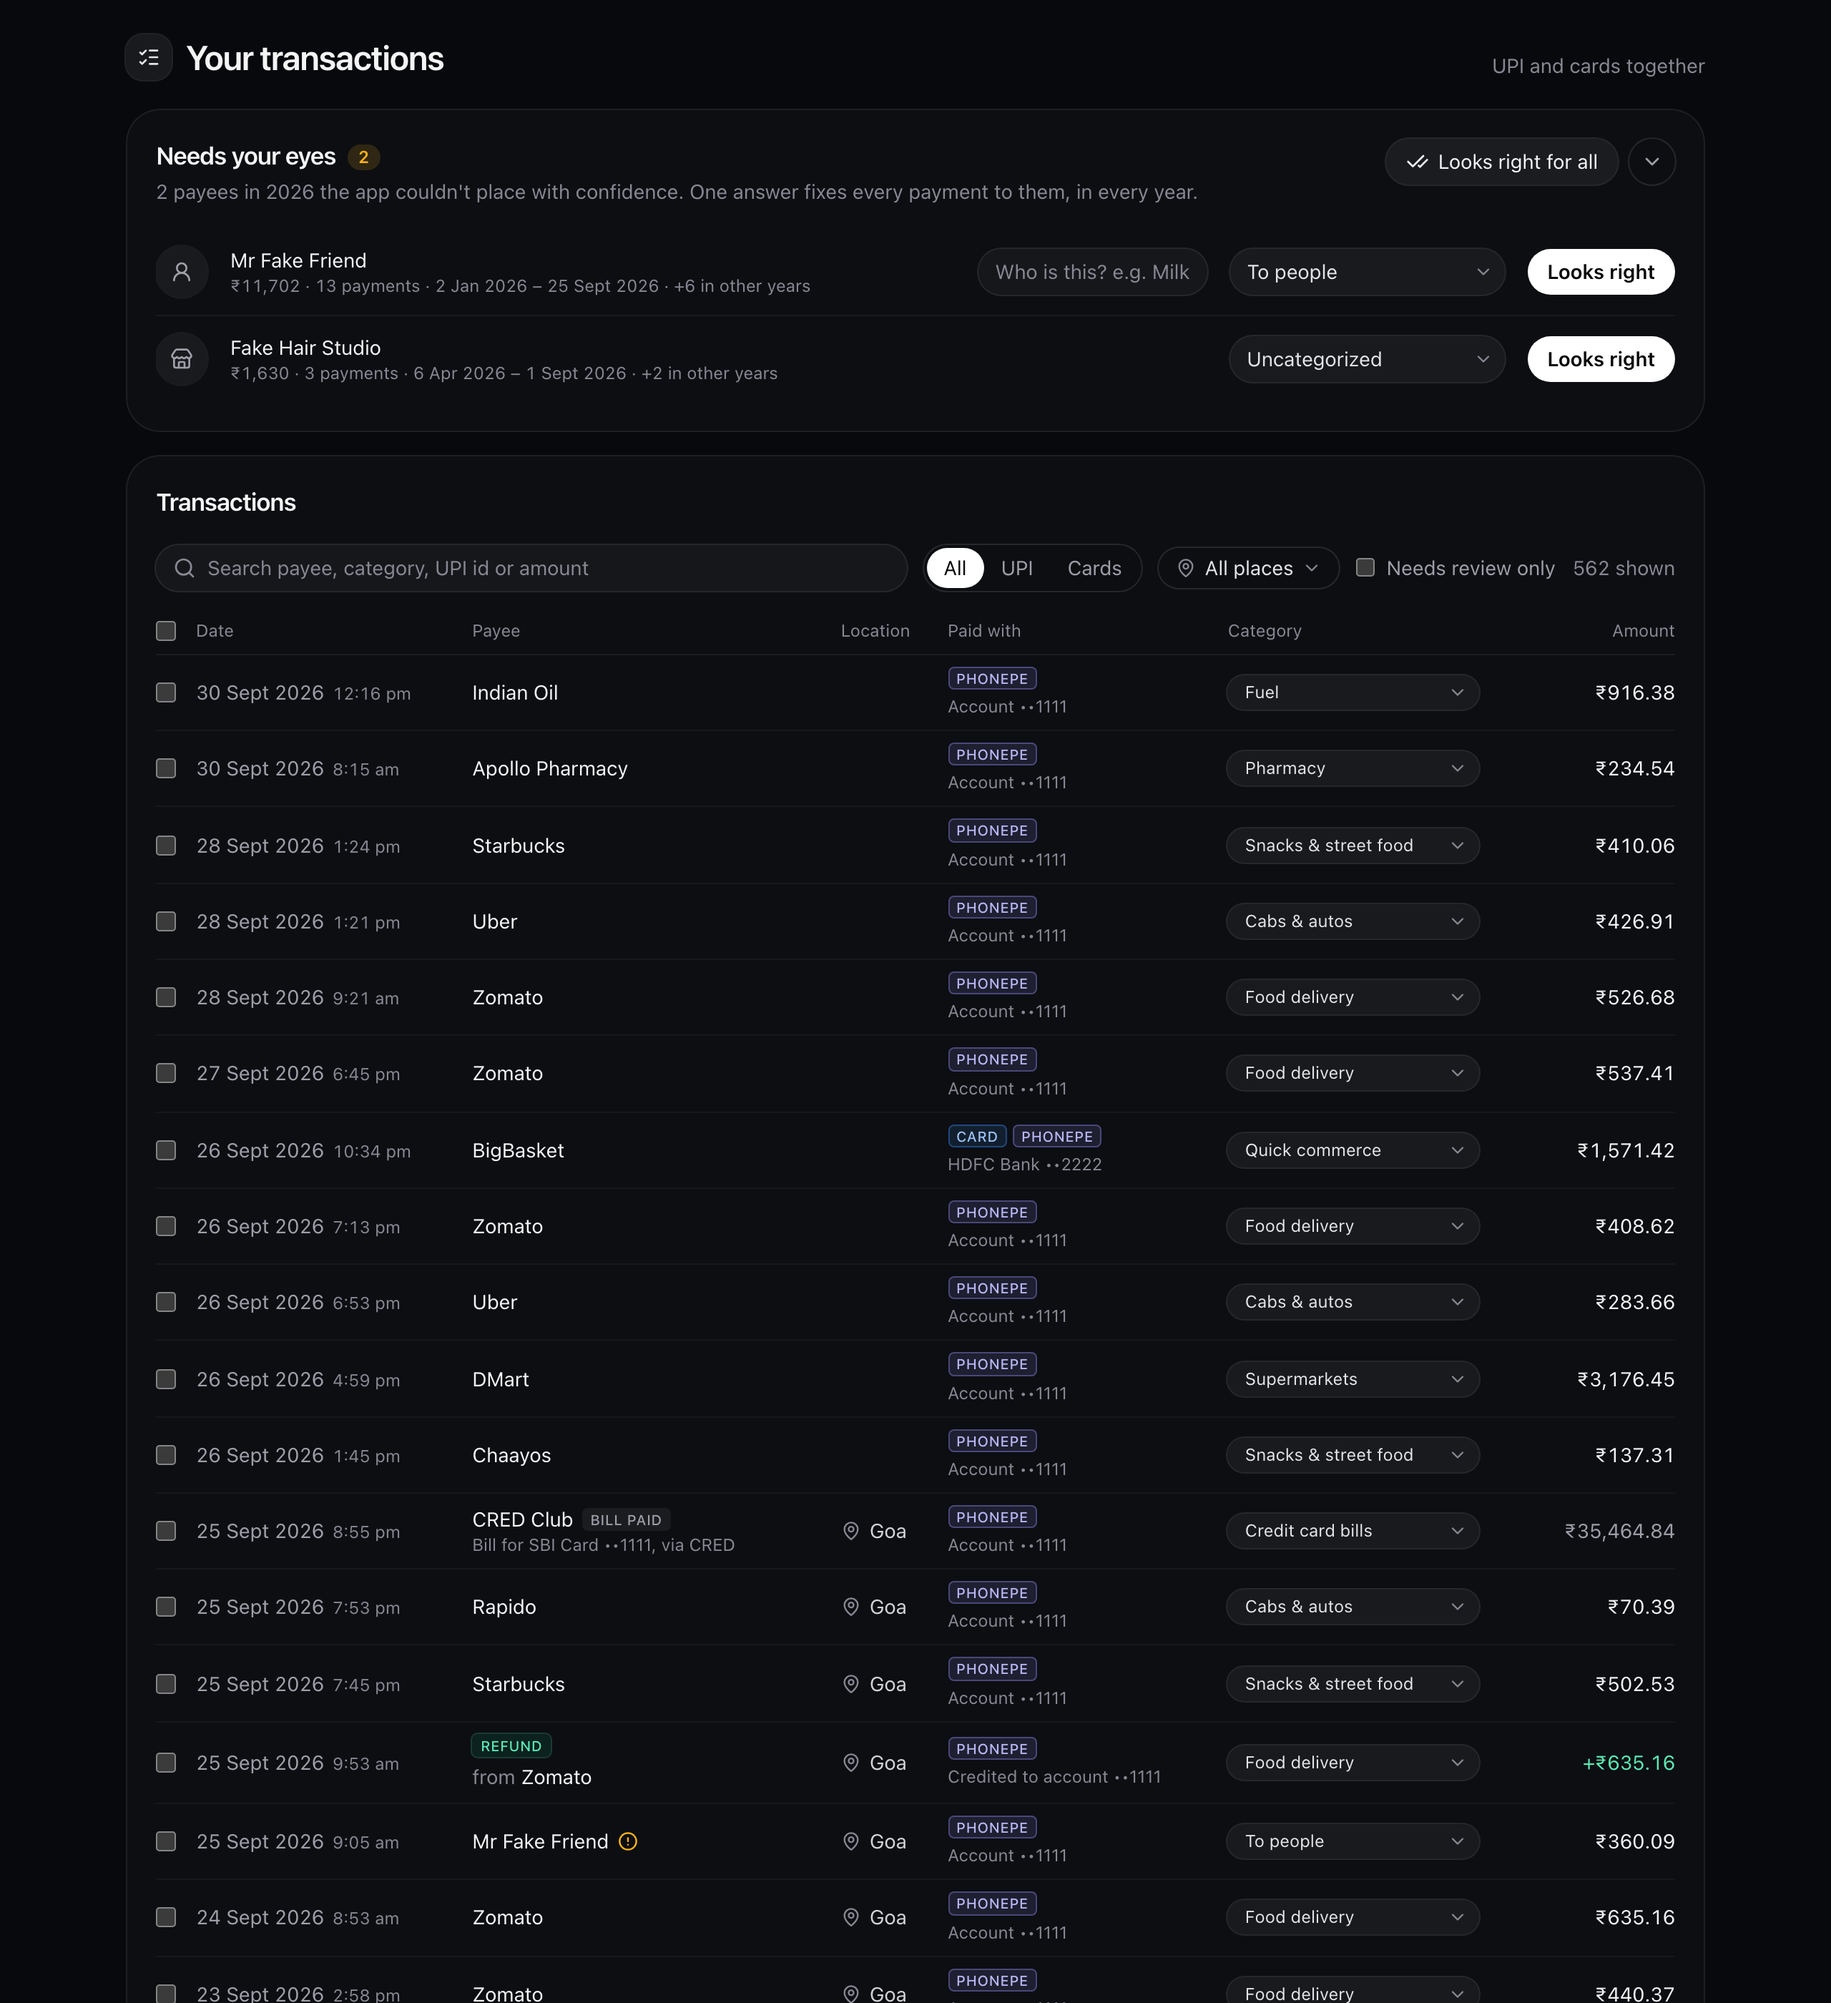
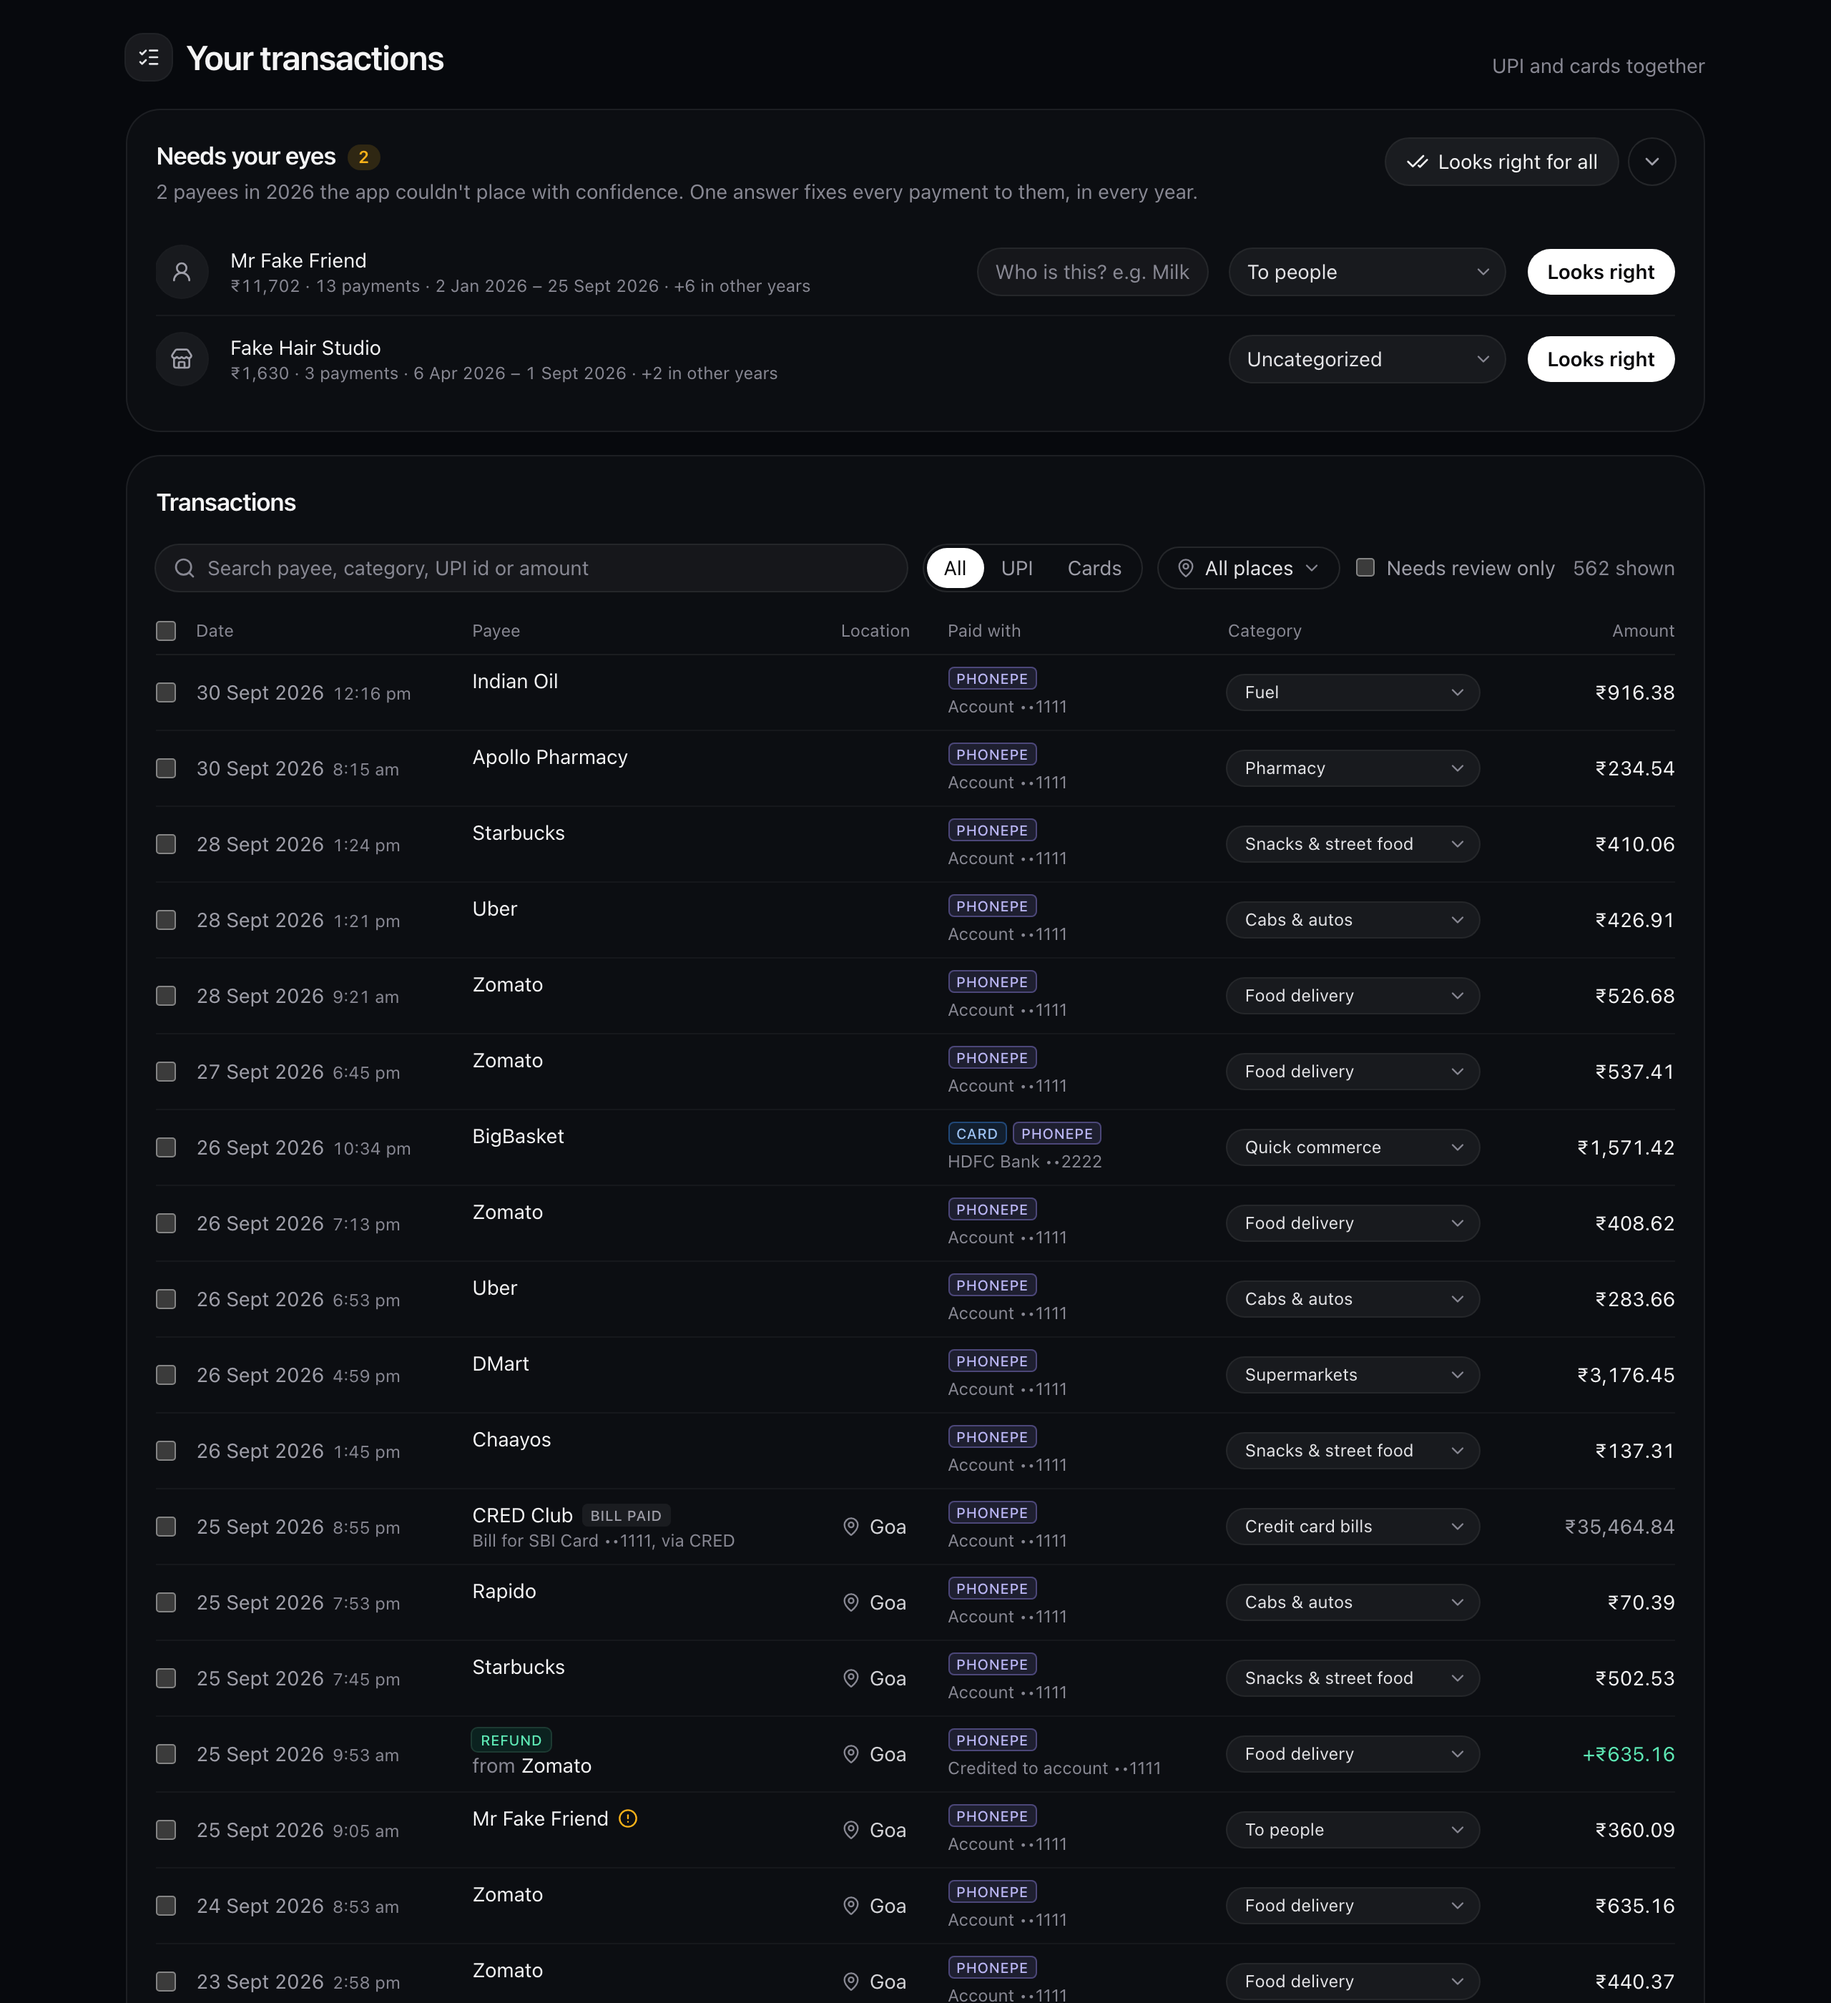
Every row of Your transactions the same height
Money in took a third line in Payee (its tag, "from" whom, then the card's own wording), and even without wording its
tag line and gap made it 4px taller than any other row. Now it's two lines like every row: the tag on top, "from" whom
under it with the card's wording beside the name, smaller, in the room the name leaves (cut first, never widening the
table; the whole of it on hover). Every Payee is two lines tall even with nothing under the name, and the chips are
exactly a small line tall, so nothing else makes a row taller. On a phone, money in is no taller than a payment out
with the same, its amount level with its tag.

Checks (scripts/checks/rows.mjs): every row of the demo's table measured the same height, every Payee two lines, no
other column taller, the wording on the name's line and cut before the name, the phone list. README transactions
picture retaken from the demo.

diff --git a/web/src/components/dash/TransactionsTable.tsx b/web/src/components/dash/TransactionsTable.tsx
@@ -365,17 +365,23 @@ export function TransactionsTable({
   )
   // money in reads as a bank's statement says it: its tag on top, then "from" whom (a cashback, its own wording), the way
   // "Paid with" has its chips on top and the account it was credited to under them (lib/ledger.ts `moneyIn`,
-  // `moneyFrom`); a payment out, its payee and any tag beside it, as before
+  // `moneyFrom`); the card's own wording beside the name, in the room the name leaves (cut before the name ever is, and
+  // never widening the table), so money in is two lines like any row. A payment out, its payee and any tag beside it
   const payee = (t: Transaction) =>
     moneyIn(t) ? (
       <div className="min-w-0">
-        <div className="flex items-center gap-1.5">
+        <div className="flex h-4 items-center gap-1.5">
           {tag(t)}
           {marks(t)}
         </div>
-        <div className="mt-1 flex min-w-0 items-baseline gap-1">
+        <div className="flex min-w-0 items-baseline gap-1">
           {t.payee !== NO_NAME && moneyFrom(t) && <span className="shrink-0 text-muted">from</span>}
           {payeeName(t)}
+          {detail(t) && (
+            <span className="ml-1 w-0 min-w-0 flex-1 truncate text-xs text-muted" title={detail(t) || undefined}>
+              {detail(t)}
+            </span>
+          )}
         </div>
       </div>
     ) : (
@@ -385,7 +391,8 @@ export function TransactionsTable({
         {marks(t)}
       </div>
     )
-  const subline = (t: Transaction) => detail(t) && <div className="truncate text-xs text-muted" title={detail(t) || undefined}>{detail(t)}</div>
+  // the card's own wording under a payment out's payee (money in has it beside the name)
+  const subline = (t: Transaction) => !moneyIn(t) && detail(t) && <div className="truncate text-xs text-muted" title={detail(t) || undefined}>{detail(t)}</div>
   const categoryOf = (t: Transaction) => <CategorySelect tree={tree} value={t.category} onChange={(c) => setOne(t, c)} compact />
   // a card bill is neither money in nor spending: no sign, no colour
   const amount = (t: Transaction) => ({
@@ -642,9 +649,12 @@ export function TransactionsTable({
                         {dayLabel(t.at)}
                         {time(t) && <span className="ml-1.5 text-xs text-muted">{time(t)}</span>}
                       </td>
+                      {/* two lines tall whatever it holds, so every row is the same height */}
                       <td className="max-w-[28rem] py-2 pr-4">
-                        {payee(t)}
-                        {subline(t)}
+                        <div className="min-h-9">
+                          {payee(t)}
+                          {subline(t)}
+                        </div>
                       </td>
                       {places && (
                         <td className="max-w-[10rem] py-2 pr-4">
@@ -686,9 +696,10 @@ export function TransactionsTable({
                       {/* the box keeps its look; the space around it takes the tap */}
                       <label className="tap -m-1.5 flex shrink-0 cursor-pointer self-start p-1.5 pt-[0.4375rem]">{tickBox(t)}</label>
                       <div className="min-w-0 flex-1">
-                        <div className="flex items-baseline gap-3">
+                        {/* money in: the amount level with its tag, a line as tall as the tag's, so the item is no taller */}
+                        <div className={`flex gap-3 ${moneyIn(t) ? 'items-start' : 'items-baseline'}`}>
                           <div className="min-w-0 flex-1">{payee(t)}</div>
-                          <div className={`shrink-0 ${money.className}`} title={money.title}>
+                          <div className={`shrink-0 ${moneyIn(t) ? 'leading-4' : ''} ${money.className}`} title={money.title}>
                             {money.text}
                           </div>
                         </div>
@@ -872,7 +883,7 @@ function paidWith(t: Transaction, side: { text: string; title: string } | null, 
           {how.parts.map((part) => (
             <span
               key={part}
-              className={`shrink-0 rounded px-1.5 py-px text-[10px] font-medium tracking-wide whitespace-nowrap uppercase ${part === 'Card' ? 'chip-card' : 'chip-upi'}`}
+              className={`shrink-0 rounded px-1.5 py-px text-[10px] leading-3.5 font-medium tracking-wide whitespace-nowrap uppercase ${part === 'Card' ? 'chip-card' : 'chip-upi'}`}
             >
               {part}
             </span>
@@ -895,7 +906,7 @@ function statementChip(onCard: Transaction | undefined, card: (id: string) => st
   return (
     <span
       title={`Also on your ${card(onCard.card ?? '')} statement, ${dayLabel(onCard.at)}: the same payment, shown once`}
-      className="shrink-0 rounded bg-white/[0.06] px-1.5 py-px text-[10px] font-medium tracking-wide whitespace-nowrap text-zinc-400 uppercase"
+      className="shrink-0 rounded bg-white/[0.06] px-1.5 py-px text-[10px] leading-3.5 font-medium tracking-wide whitespace-nowrap text-zinc-400 uppercase"
     >
       + Statement
     </span>
@@ -908,7 +919,7 @@ function tag(t: Transaction) {
   return (
     <span
       title={it.title}
-      className={`shrink-0 rounded px-1.5 py-px text-[10px] font-medium tracking-wide uppercase ${
+      className={`shrink-0 rounded px-1.5 py-px text-[10px] leading-3.5 font-medium tracking-wide uppercase ${
         it.inward ? 'bg-emerald-400/10 text-emerald-300 ring-1 ring-emerald-300/20' : 'bg-white/[0.06] text-zinc-400'
       }`}
     >

diff --git a/docs/RELEASE-NOTES.md b/docs/RELEASE-NOTES.md
@@ -33,6 +33,7 @@ made.
   still works. A click inside it, a window it opened, or selecting its text past its edge keeps it open.
 - **Money in reads clearly**: a received payment's row says "Received", then "from" whom, and under Paid with's chips
   "Credited to account ••1111" (or the card it went back to), as a bank's statement does; payments out are unchanged.
+  Every row of the list is the same height, money in included.
 - **Search Your transactions by category**: type `bar`, `food`, `shop` (or `liquor`, `kirana`, `petrol`…) and the list
   shows that category's payments, a main category with everything under it, alongside payees with the word in their
   name; a chip for each category named, with how many, narrows the list to it.
@@ -55,7 +56,7 @@ made.
 | `make test`: the dashboard's arithmetic, Ask Plutus, places and states, Start over, reading time, search by category, how money in reads, contrast | 227 passed |
 | `make test`: TypeScript | no errors |
 | `make measure`: 1000 random fake card statements | 926 proven, 74 held (they print nothing to check them by), none wrong, none unread |
-| `make check-ui`: the page in a headless browser, on the demo | 543 passed, none failed |
+| `make check-ui`: the page in a headless browser, on the demo | 551 passed, none failed |
 
 Among them: a place's spending is the same in its Places card, in Ask Plutus, and counted independently from the
 API; the Location column names the place on exactly its days; telling a stay keeps nothing until its button, a typed

diff --git a/docs/GUIDE.md b/docs/GUIDE.md
@@ -231,11 +231,13 @@ words).
 
 **Money in** reads the way a bank's statement says it. In **Payee**, its green tag on top (**Received**, **Refund**,
 **Cashback**, **Transfer in**) and under it who it's from: "from Mr Fake Friend", "from Zomato" (a cashback's name is the
-file's own wording for it, "Cashback Received", so it's shown as it is, without "from"). In **Paid with**, the chips
+file's own wording for it, "Cashback Received", so it's shown as it is, without "from"); the card's own wording, when
+it says more, sits beside the name, smaller, and is cut short before the name ever is. In **Paid with**, the chips
 on top and under them where it went: "Credited to account ••1111", or "Credited to SBI Card ••1111" when money comes
 back to a card. When the file doesn't say which account received it, there's no such line rather than a guess. A
 card bill's statement side ("PAYMENT RECEIVED") is your own payment to the card: it keeps its **Bill paid** tag
-beside the name, never "from".
+beside the name, never "from". Money in takes two lines like any other payment, so every row of the list is the same
+height.
 
 **Searching** the transactions list: the box finds a payee, a UPI id, an amount, a place, and a **category**, within
 what the list shows (the year at the top, All/UPI/Cards…). Type a word of a category's name, or a word people use for it,

diff --git a/docs/DECISIONS.md b/docs/DECISIONS.md
@@ -218,8 +218,11 @@ them. The column stays "Paid with" (the owner declined renaming it). "From" only
 (Received, Refund, Transfer in): a cashback's name is the file's wording ("Cashback Received"), shown as it is; a card
 bill's statement side is your own payment to the card, its tag beside the name as before. The account on your side is
 the field the parsers already fill for both directions ("Debited from" and "Credited to"), so nothing stored changed;
-no line when a file doesn't say. `accountLine`, `moneyIn`, `moneyFrom` in `lib/ledger.ts` (`web/tests/moneyIn.test.ts`),
-`scripts/checks/rows.mjs`.
+no line when a file doesn't say. Every row the same height (the owner asked for it): money in is two lines like any
+row, the card's own wording beside the name rather than a third line (in the room the name leaves, so it's cut first);
+every Payee is two lines tall even with nothing under the name, and the chips are exactly a small line tall, so nothing
+else makes a row taller. `accountLine`, `moneyIn`, `moneyFrom` in `lib/ledger.ts` (`web/tests/moneyIn.test.ts`),
+`scripts/checks/rows.mjs` (it measures every row).
 
 **Decision**: each row of the transactions list says how the payment was made in the "Paid with" column (right after
 the payee, before the category: Date, Payee, Paid with, Category, Amount, as the owner set it): a chip each on top,

diff --git a/AGENTS.md b/AGENTS.md
@@ -201,7 +201,8 @@ Backend tests alone: `cd backend && .venv/bin/python -m pytest -q`. Web: `cd web
   (`lib/startOver.ts`). Every `/api` answer is sent `no-store` (`app/main.py`): nothing of yours in the browser's cache.
 - Rows where money comes in carry a green tag (`rowTag` in `lib/ledger.ts`); a card bill's amount is grey, unsigned.
   Money in reads as a bank's statement does: its tag on top and "from" whom under it in Payee, "Credited to" the
-  account or card under the chips in Paid with (`moneyIn`, `moneyFrom`, `accountLine` in `lib/ledger.ts`).
+  account or card under the chips in Paid with (`moneyIn`, `moneyFrom`, `accountLine` in `lib/ledger.ts`); the
+  card's own wording beside the name, so it's two lines like any row: every row of the table is the same height.
   How a payment was made shows in the list's "Paid with" column (`howPaid`): a chip each, a card in blue
   (`chip-card`), UPI and its apps in violet (`chip-upi`), the account or card below; only what the files say (the
   channel, the app whose history it came from, a card), never a guess (tap, swipe or online).
